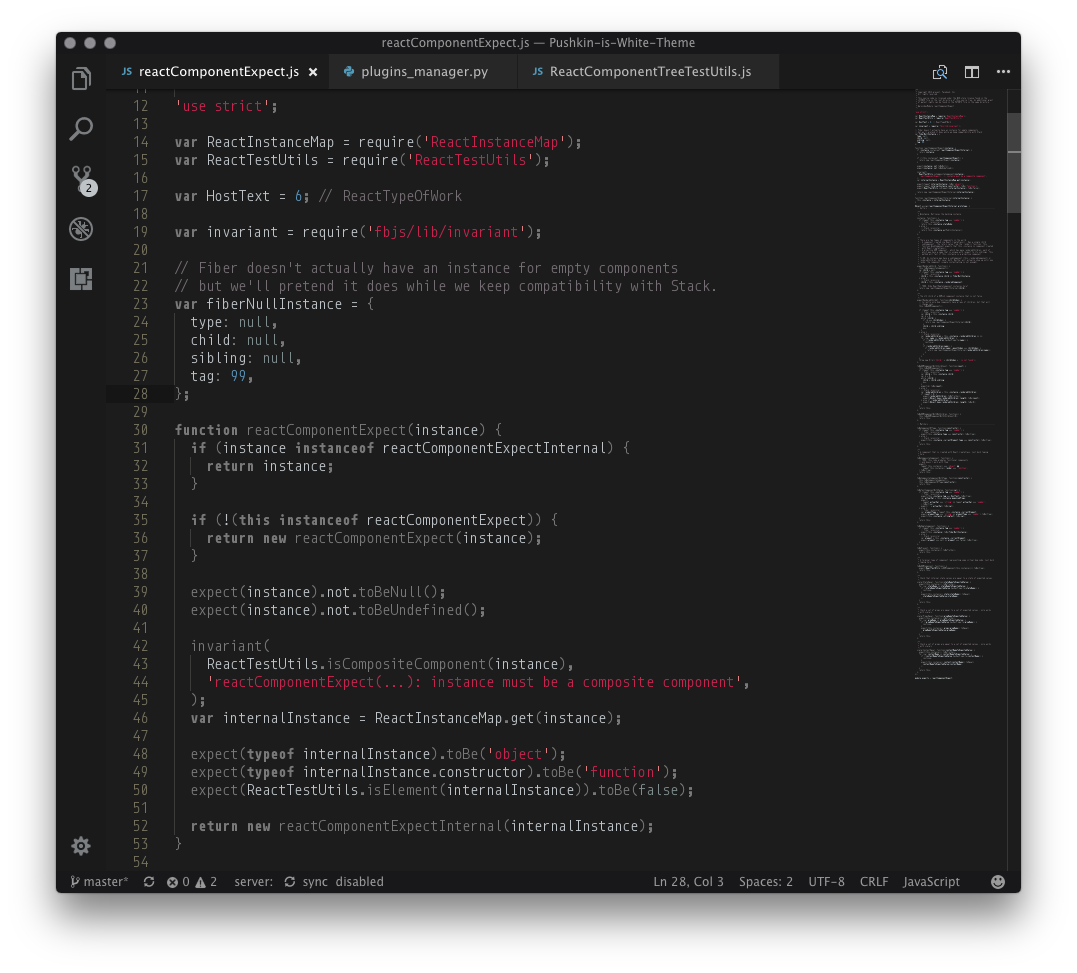
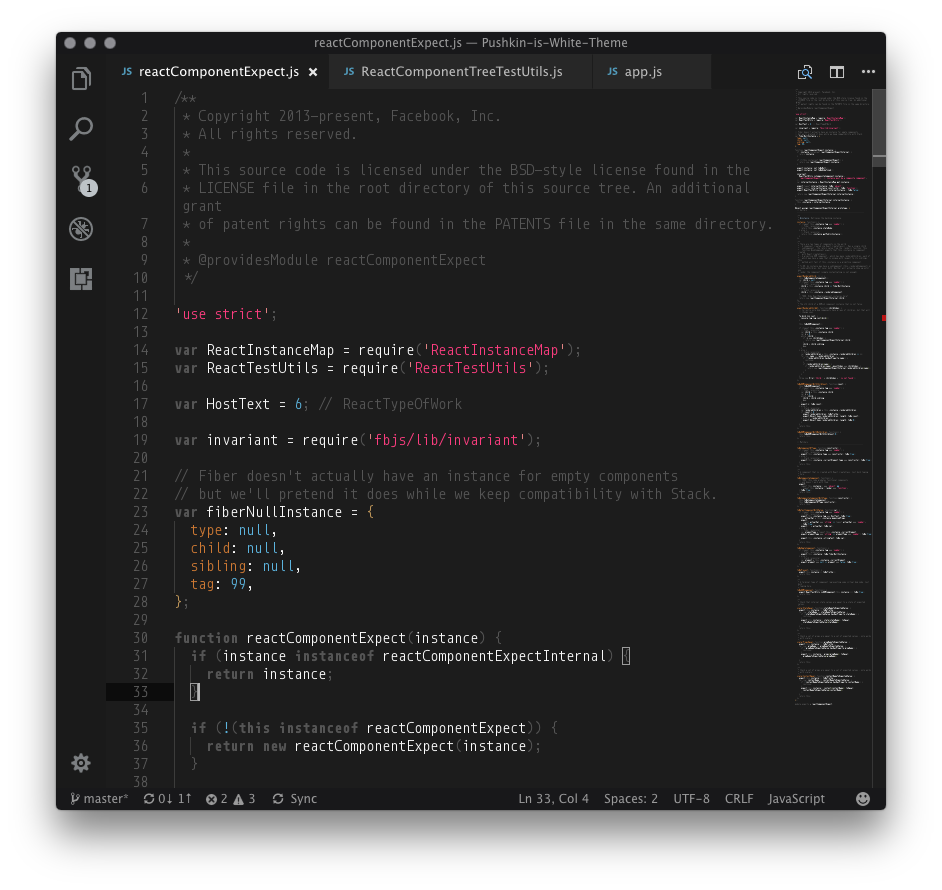
Reupdated the black theme.

diff --git a/README.md b/README.md
@@ -108,9 +108,13 @@ If you have any change requests or ideas feel free to create an issue [here](htt
 </p></details>
 
 ![Example 1](https://raw.githubusercontent.com/llatigid/Pushkin-is-White-Theme/master/media/pushkin-is-white-example-js-1.png)  
+
 ![Example 2](https://raw.githubusercontent.com/llatigid/Pushkin-is-White-Theme/master/media/pushkin-is-black-example-js-1.png)
  
 ![Example 3](https://raw.githubusercontent.com/llatigid/Pushkin-is-White-Theme/master/media/pushkin-is-white-example-js-2.png)  
+
 ![Example 4](https://raw.githubusercontent.com/llatigid/Pushkin-is-White-Theme/master/media/pushkin-is-black-example-js-2.png)
  
 ![Example 5](https://raw.githubusercontent.com/llatigid/Pushkin-is-White-Theme/master/media/pushkin-is-white-example-js-3.png)  
+
+![Example 6](https://raw.githubusercontent.com/llatigid/Pushkin-is-White-Theme/master/media/pushkin-is-black-example-js-3.png)
